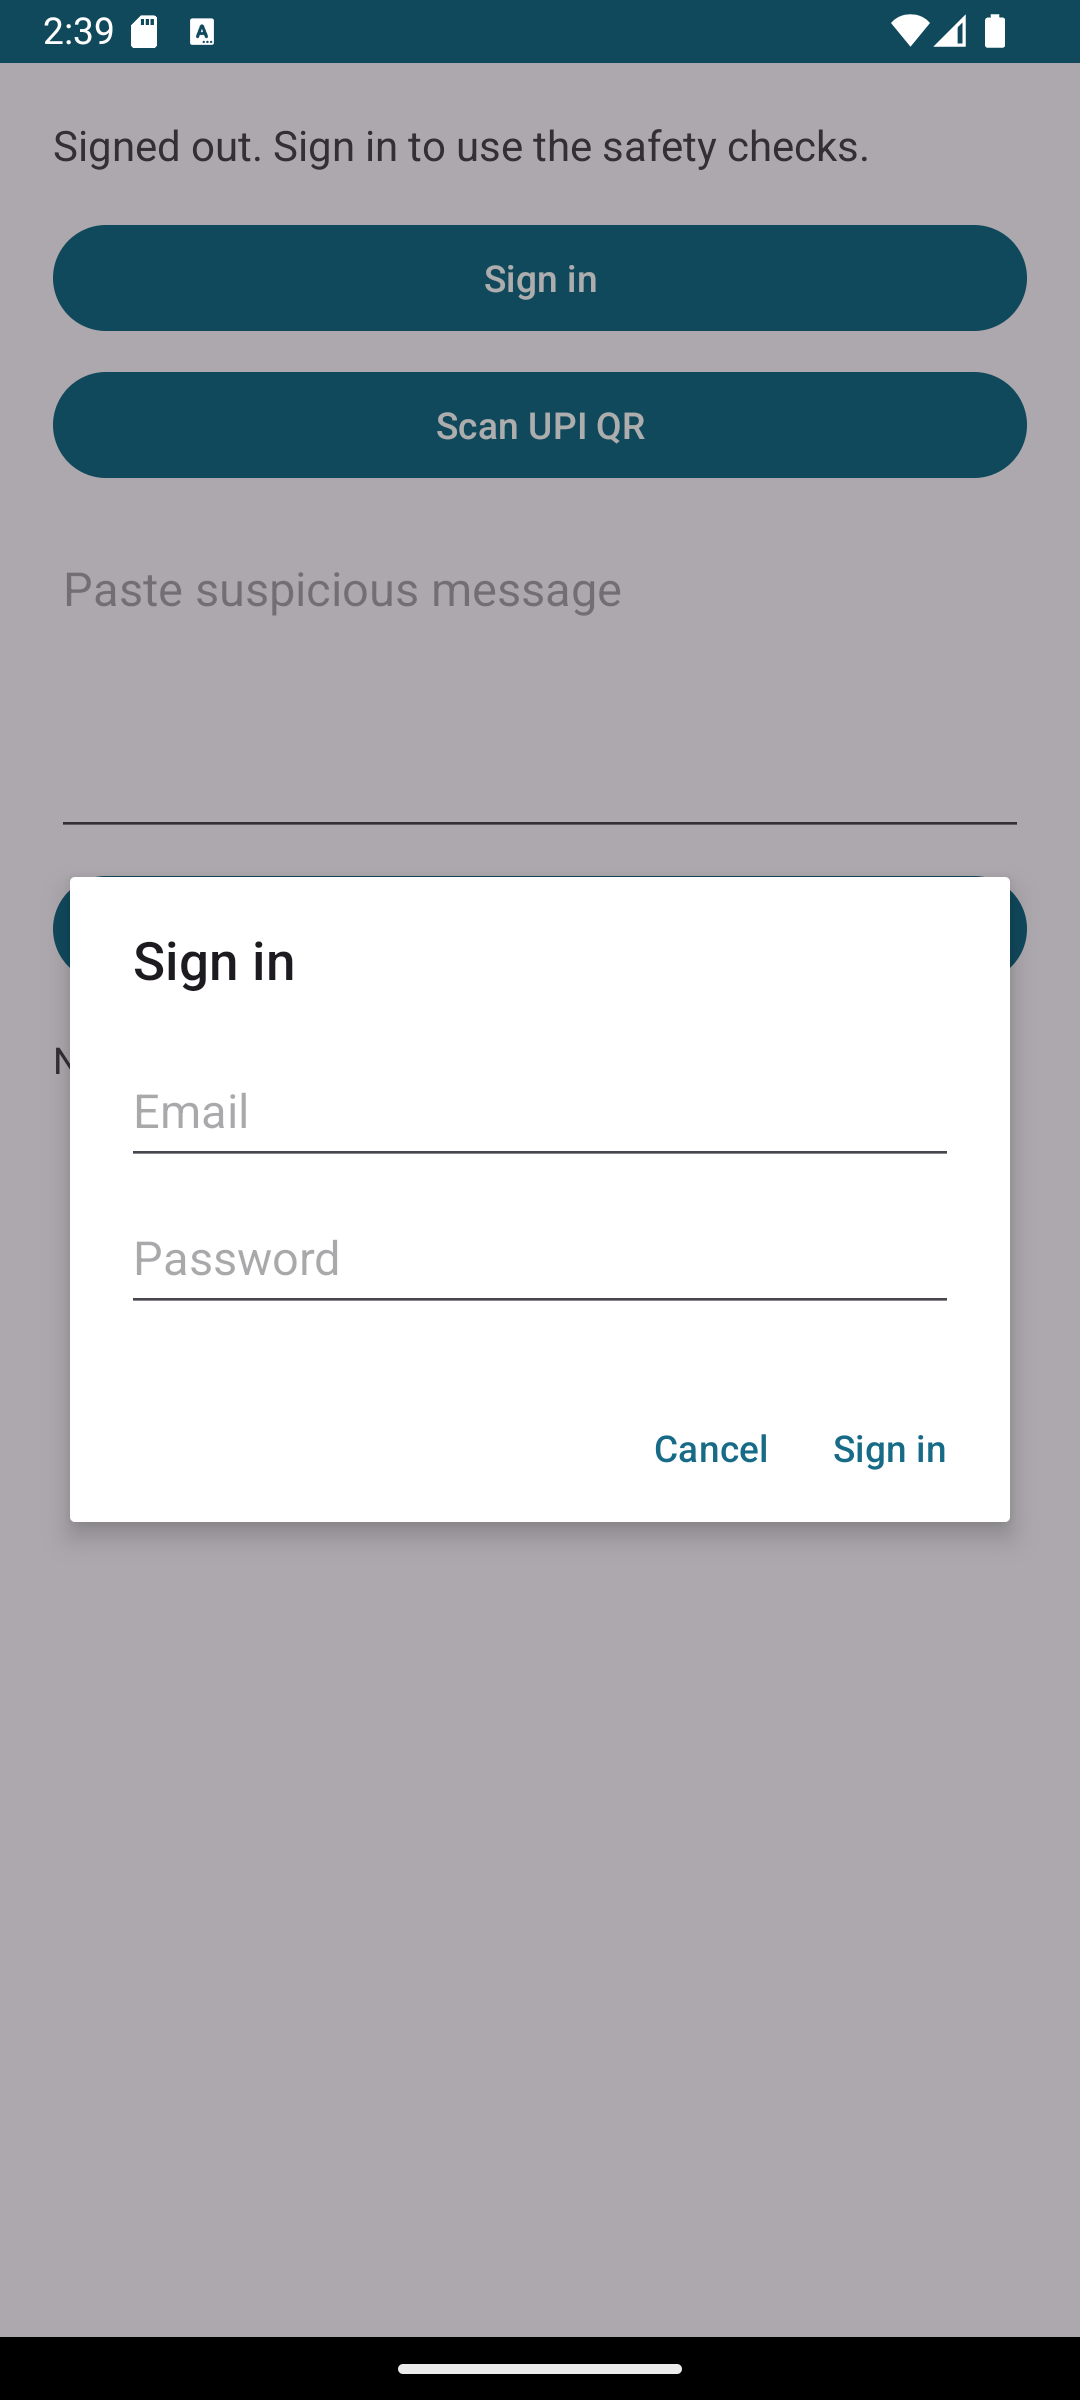
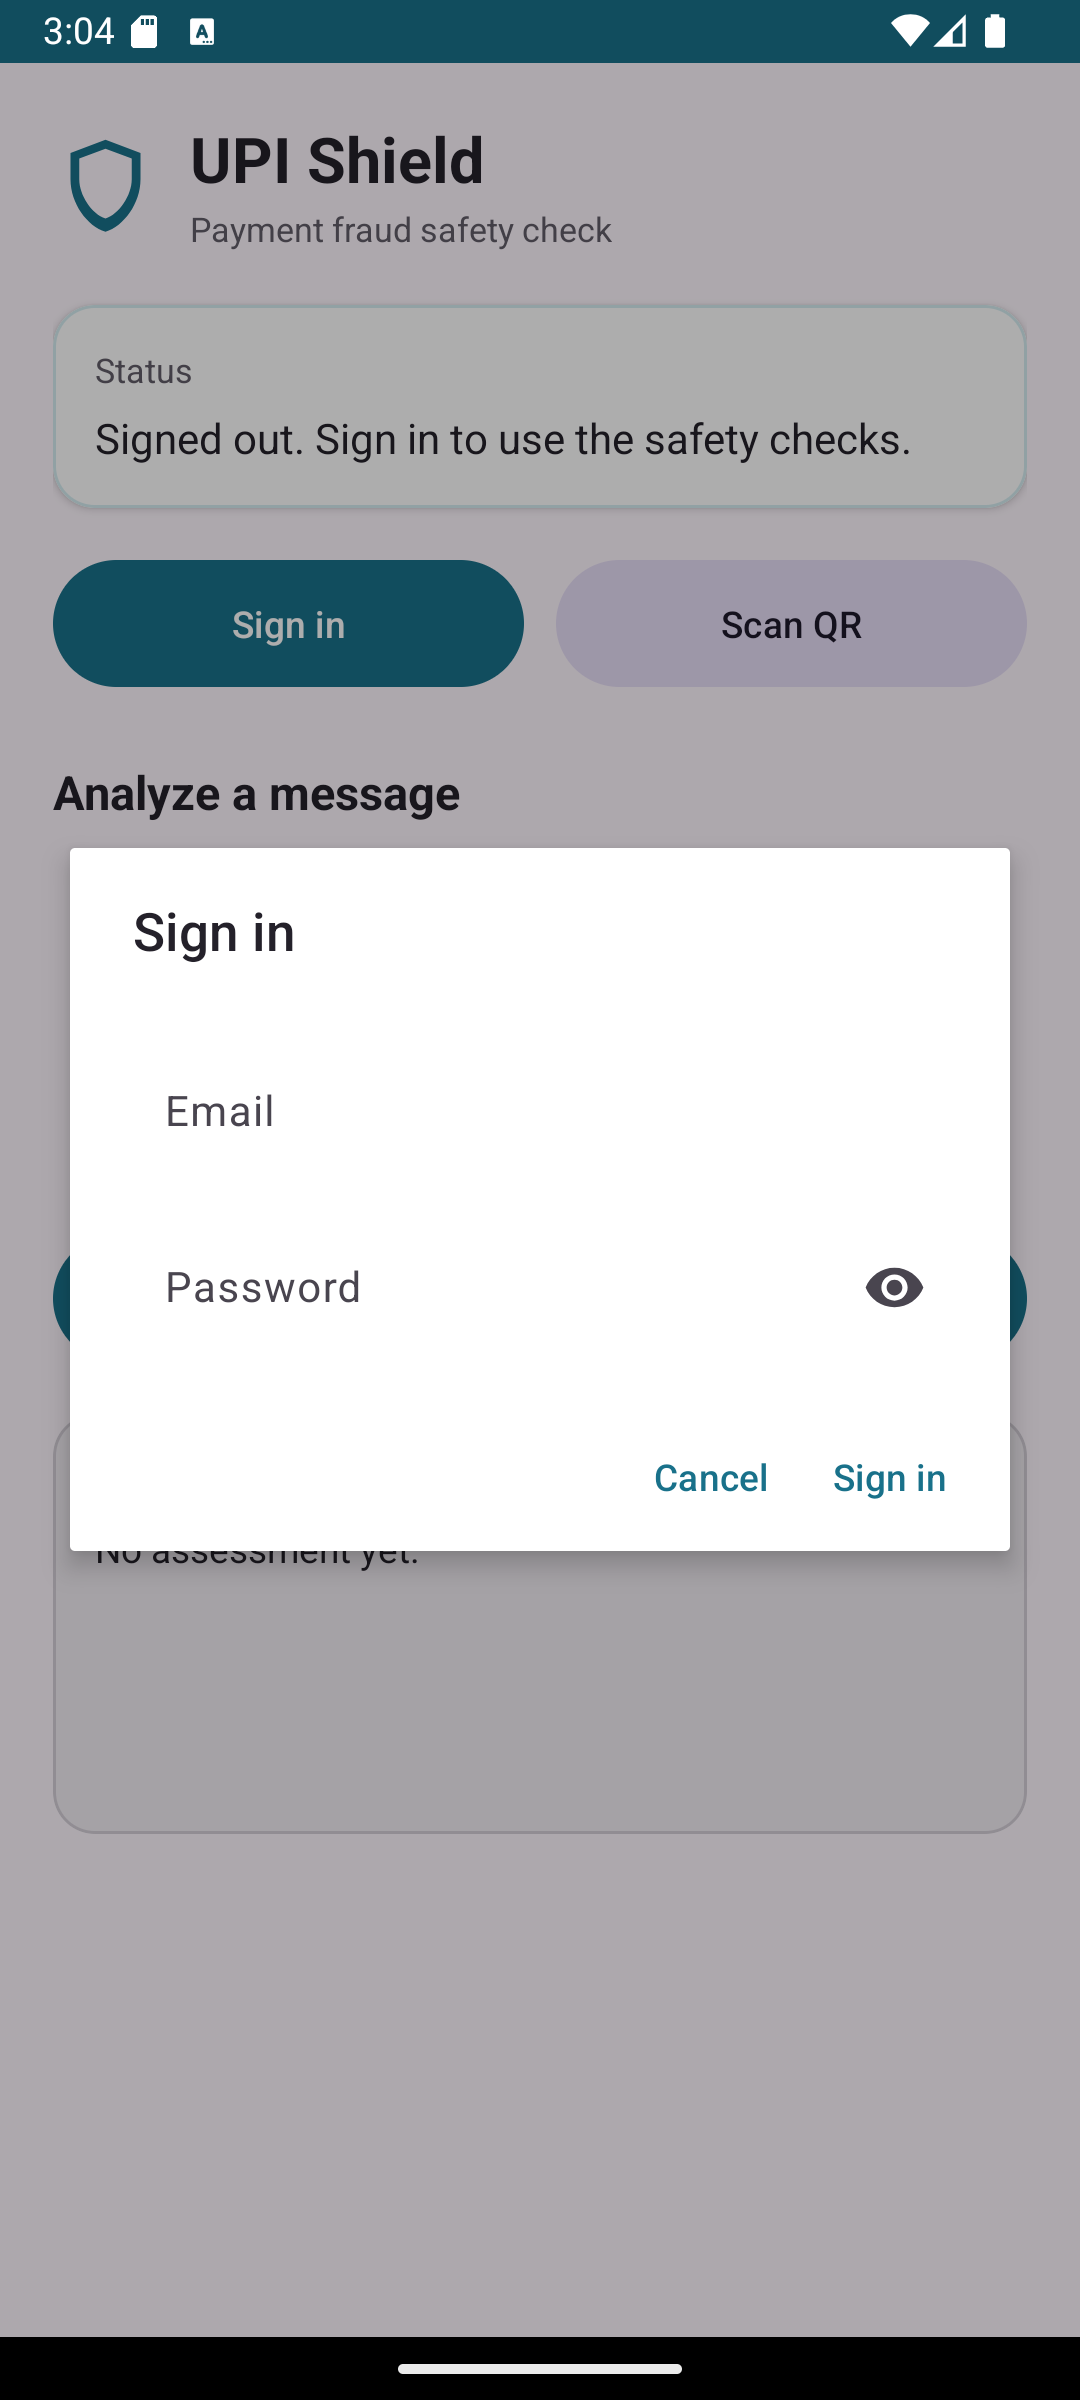
Apply the Secure FinTech Android theme

diff --git a/docs/UPI_SHIELD_PROJECT_REPORT.md b/docs/UPI_SHIELD_PROJECT_REPORT.md
@@ -47,6 +47,8 @@ The Android Java client provides:
 - Message analysis result display.
 - Backend error feedback.
 
+The Android interface uses a modern Material FinTech theme with teal primary controls, orange secondary accents, warm light surfaces, and dedicated safe, warning, and danger colors.
+
 The Android debug app was built successfully with Android SDK 34 and the project SDK 35 target configuration was adjusted to the installed SDK.
 
 ## 3. Architecture
@@ -115,11 +117,11 @@ The app updates its status after an issued backend JWT is stored. It remains on 
 
 ![Signed-in state](../screenshots/03_signed_in_state.png)
 
-### 6.4 Message result before API model alignment
+### 6.4 Message entry state
 
-This screenshot documents the first emulator result during testing. The Android model expected a different response shape than the backend message-analysis DTO, so the result showed unknown and false placeholder fields.
+This screenshot shows the restyled message input populated with a suspicious refund and remote-access request.
 
-![Message result before model fix](../screenshots/04_message_result_before_model_fix.png)
+![Restyled message entry state](../screenshots/04_message_result_before_model_fix.png)
 
 ### 6.5 Corrected high-risk message result
 
@@ -139,17 +141,17 @@ The QR scanning control opens the Android camera permission prompt. The app requ
 
 ![QR camera permission prompt](../screenshots/06_qr_permission.png)
 
-### 6.7 QR camera error
+### 6.7 QR live camera
 
-The emulator does not provide a usable physical camera, so the ZXing camera activity reports that the Android camera encountered a problem.
+After camera permission is granted, the emulator ZXing activity opens the available camera preview.
 
-![QR camera error state](../screenshots/07_qr_camera_error.png)
+![QR live camera state](../screenshots/07_qr_camera_error.png)
 
-### 6.8 Return state after QR error
+### 6.8 Return state after QR scan
 
-The camera error dialog is dismissible and returns control to the app. The app remains usable for message analysis.
+Closing the ZXing scanner returns control to the themed app. The app remains usable for message analysis.
 
-![App state after QR camera error](../screenshots/08_app_after_qr_error.png)
+![App state after QR scanner](../screenshots/08_app_after_qr_error.png)
 
 ## 7. Test results
 
